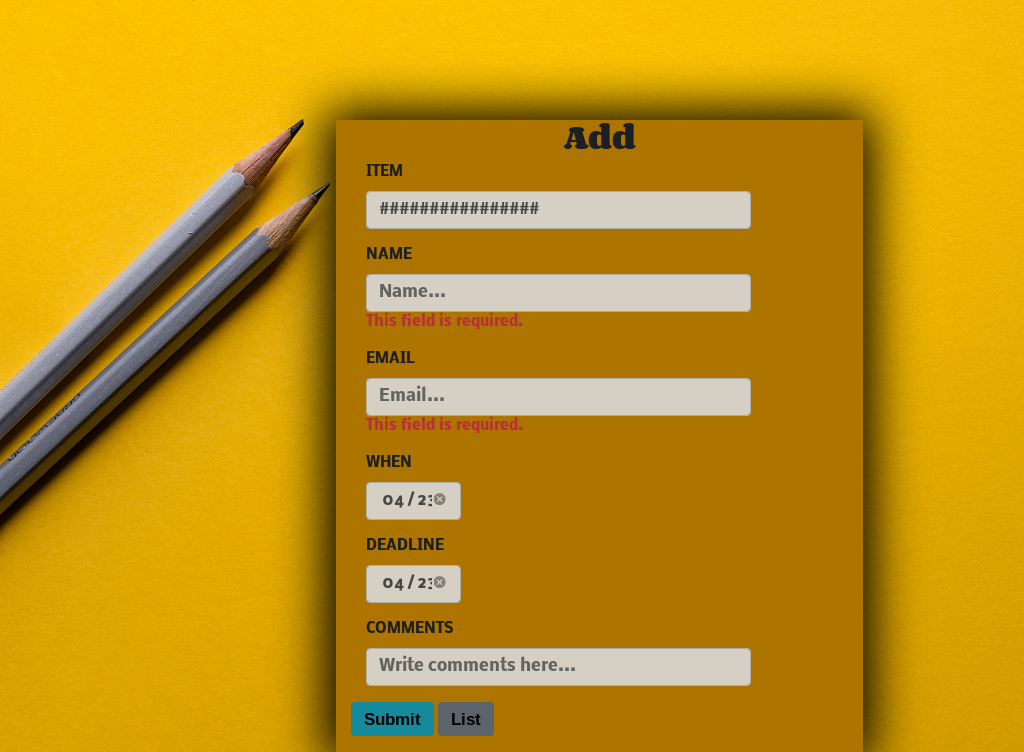
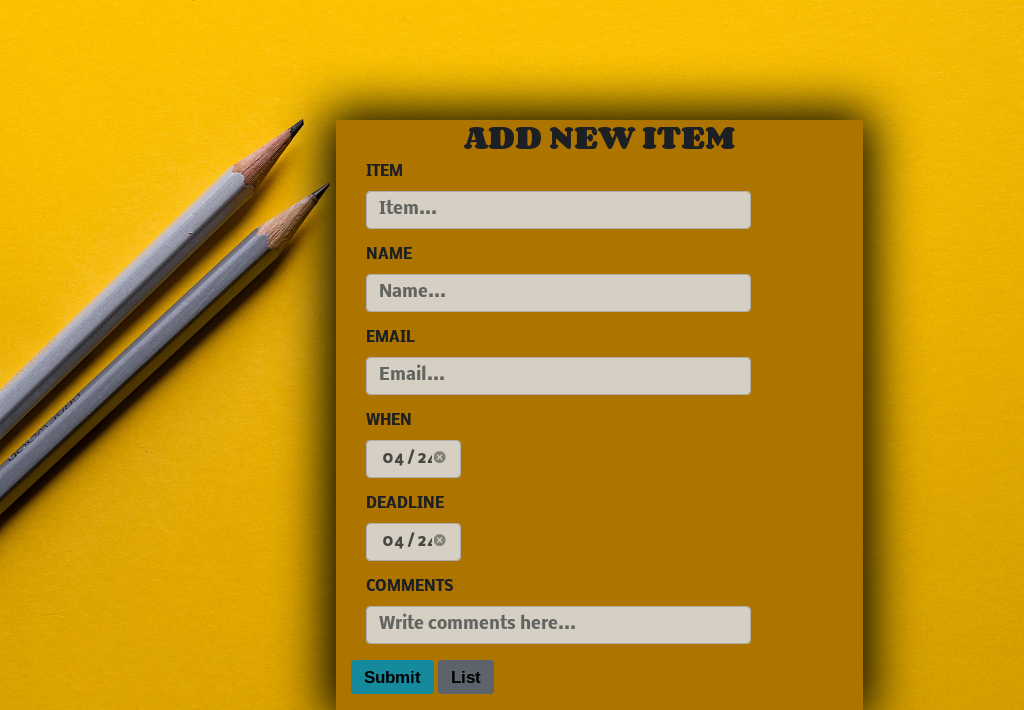
updated features on master branch

Changed region(s): [[0.0, 0.1239, 0.8438, 0.7746], [0.3438, 0.5268, 0.75, 0.9915]]

diff --git a/visual_regression_specs/main-page.js b/visual_regression_specs/main-page.js
@@ -3,19 +3,15 @@ process.env.NODE_ENV = 'test';
 let expect = require('chai').expect;
 
 function evaluate (results) {
-    results.forEach((result) => expect(result.isExactSameImage, 'image is not the same').to.be.false);
+    results.forEach((result) => expect(result.isExactSameImage, 'image is not the same').to.be.true);
 }
 
-describe('example', function () {
+describe('main page', function () {
     beforeEach(function () {
         browser.url('http://localhost:3000/record');
     });
 
     it('should look good', function () {
-        const item = '################';
-        $(`[name="item"]`).setValue(item);
-        $('[type="submit"]').click();
-
         let report = browser.checkElement('body');
 
         evaluate(report);
